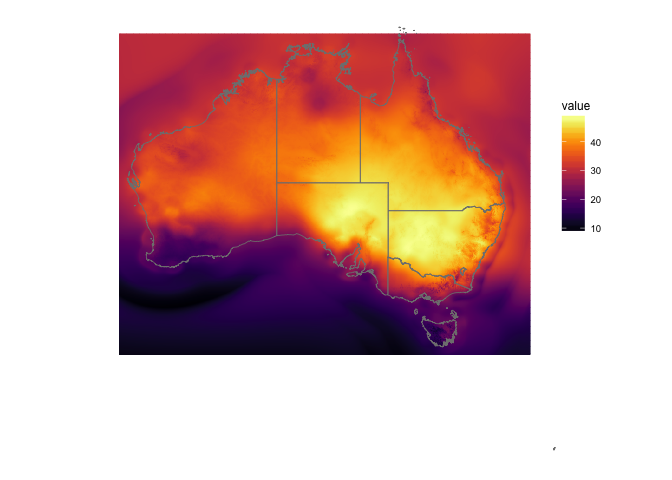
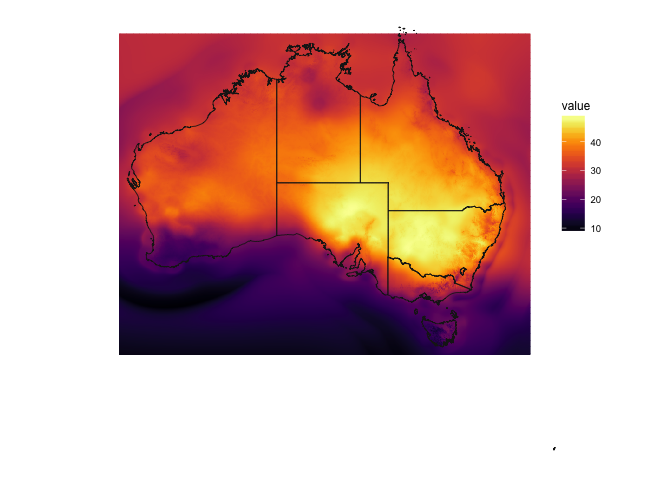
update plots

diff --git a/README.md b/README.md
@@ -128,7 +128,7 @@ So, the goal from here is to:
 -   Plot using ggplot
 -   add better legends etc to make it look more similar to the BoM image
 
-Adding the sahpefile of Australia
+Adding the shapefile of Australia
 ---------------------------------
 
 ROpenSciLabs has a `naturalearthdata` package that is fast and easy to use. Thank you to adamhsparks for finding this and adding to the README!
@@ -245,14 +245,19 @@ head(oz_shape_sf)
 Plot using ggplot2
 ------------------
 
-There is a `geom_sf` in the latest version of ggplot2, so I should be able to do something like what is described in the [NEWS.md bullet](https://github.com/tidyverse/ggplot2/blob/master/NEWS.md#sf). So the code would look something like:
+You can plot this directly from the spatial data, using the following method as described in the tidyverse here, <https://github.com/tidyverse/ggplot2/wiki/plotting-polygon-shapefiles>:
 
 ``` r
-ggplot(oz_shape_sf) +
-  geom_sf()
+ggplot(oz_shape) +
+   aes(x = long, 
+       y = lat, 
+       group = group) + 
+     geom_polygon() +
+     geom_path(color = "white") +
+     coord_equal()
 ```
 
-But, I'll need to add the temperature information to the simple features data, I think - judging by the example ggplot2 code:
+But there are some ways to plot this using the new package `sf`. Do add the temperatures, I think I'll need to add this for each row of each feature.
 
 ``` r
 nc <- sf::st_read(system.file("shape/nc.shp", package = "sf"), quiet = TRUE)
@@ -281,7 +286,7 @@ head(nc)
     ## 5     9    1066  1606     3    1197 MULTIPOLYGON(((-77.21766662...
     ## 6     7     954  1838     5    1237 MULTIPOLYGON(((-76.74506378...
 
-Which unfortunately gives an error when plotting
+However, the `ggplot2::geom_sf` unfortunately gives an error when plotting.
 
 ``` r
 ggplot(nc) +
@@ -426,7 +431,7 @@ ggplot() +
                    y = lat, 
                    group = group), 
                fill = NA, 
-               color = "grey50", 
+               color = "grey10", 
                size = 0.3) +
   scale_fill_viridis(option = "inferno") +
   coord_equal() +
